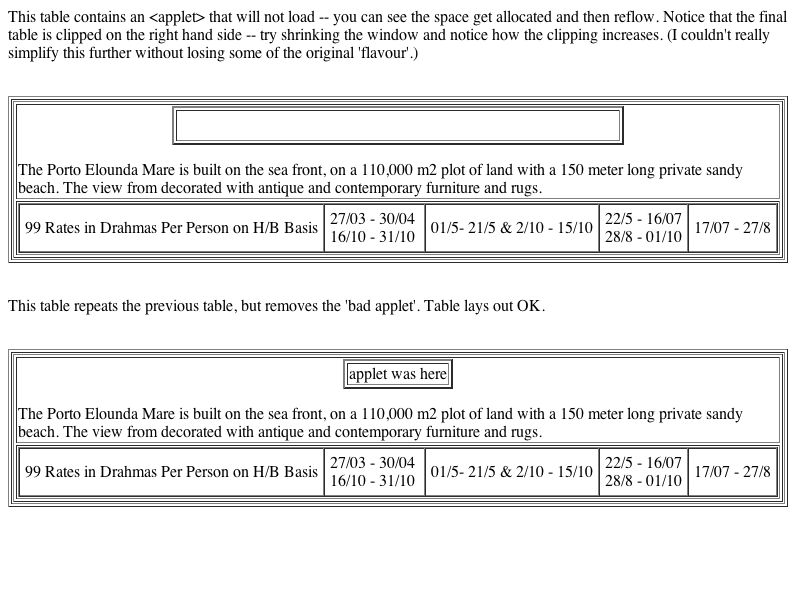
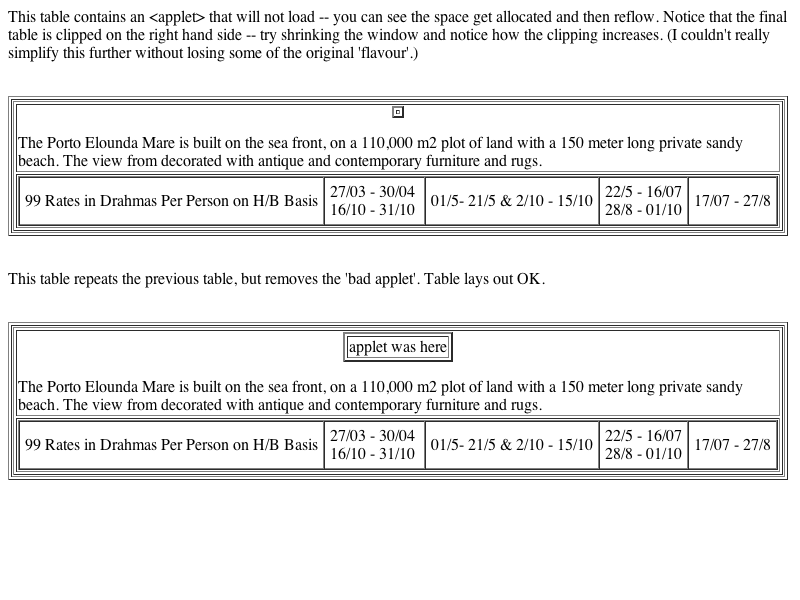
LayoutTests:
Reviewed by mjs.  Tweaked and landed by ddkilzer.

        http://bugzilla.opendarwin.org/show_bug.cgi?id=7281
        With java disabled wrong information is displayed.

        * fast/replaced/applet-rendering-java-disabled.html: Added.
        * fast/replaced/applet-rendering-java-disabled-expected.checksum: Added.
        * fast/replaced/applet-rendering-java-disabled-expected.html: Added.
        * fast/replaced/applet-rendering-java-disabled-expected.png: Added.
        * tables/mozilla_expected_failures/bugs/bug8499-expected.checksum: Changed after removing RenderEmptyApplet.
        * tables/mozilla_expected_failures/bugs/bug8499-expected.png: Ditto.
        * tables/mozilla_expected_failures/bugs/bug8499-expected.txt: Ditto.

WebCore:

        Reviewed by mjs.  Tweaked and landed by ddkilzer.

        http://bugzilla.opendarwin.org/show_bug.cgi?id=7281
        With java disabled wrong information is displayed.

        Test: fast/replaced/applet-rendering-java-disabled.html

        Match WinIE, render applet content inline when java is
        disabled. 

        * WebCore.vcproj/WebCore/WebCore.vcproj: Removed RenderEmptyApplet.cpp and RenderEmptyApplet.h.
        * WebCore.xcodeproj/project.pbxproj: Ditto.
        * WebCoreSources.bkl: Ditto.
        * html/HTMLAppletElement.cpp:
        (WebCore::HTMLAppletElement::createRenderer):
        * rendering/RenderEmptyApplet.cpp: Removed.
        * rendering/RenderEmptyApplet.h: Removed.
[…]

Changed region(s): [[0.0, 0.15, 1.0, 0.84], [0.2188, 0.15, 0.4688, 0.18]]

diff --git a/LayoutTests/fast/replaced/applet-rendering-java-disabled.html b/LayoutTests/fast/replaced/applet-rendering-java-disabled.html
@@ -1,0 +1,3 @@
+<p>Test for <a href="http://bugzilla.opendarwin.org/show_bug.cgi?id=7281">http://bugzilla.opendarwin.org/show_bug.cgi?id=7281</a></p>
+<p>This tests rendering of an applet element with Java disabled. If Java is disabled and Safari shows the content in the applet tag, then the test passed.</p>
+<applet code="">SUCCESS</applet>

diff --git a/WebCore/html/HTMLAppletElement.cpp b/WebCore/html/HTMLAppletElement.cpp
@@ -28,7 +28,7 @@
 #include "HTMLDocument.h"
 #include "HTMLNames.h"
 #include "RenderApplet.h"
-#include "RenderEmptyApplet.h"
+#include "RenderInline.h"
 
 namespace WebCore {
 
@@ -135,9 +135,7 @@ RenderObject *HTMLAppletElement::createRenderer(RenderArena *arena, RenderStyle 
         return new (document()->renderArena()) RenderApplet(this, args);
     }
 
-    // ### remove me. we should never show an empty applet, instead
-    // render the alternative content given by the webpage
-    return new (document()->renderArena()) RenderEmptyApplet(this);
+    return new (document()->renderArena()) RenderInline(this);
 }
 
 #if __APPLE__
